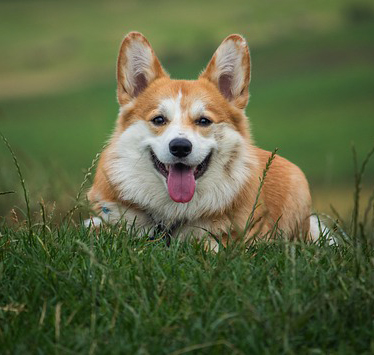
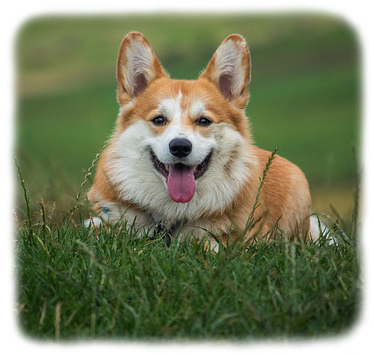
changed pricelist-box and img

Changed region(s): [[0.0, 0.0, 1.0, 1.0]]

diff --git a/css/dagis.css b/css/dagis.css
@@ -58,10 +58,10 @@
   
 }
 #pomeranian-img{
-    
-  margin: 5%;
+
+width: 350px;
+height: auto;
   grid-area:pomeranian-img;
-  border-radius: 5%;
     
 }
 
@@ -140,9 +140,12 @@
     }
     #price-list-box{
         border: dotted 2px rgba(38, 51, 67, 0.8);
-        width: 400px;
+        width: 800px;
         height: 200px;
         padding:2%;
+    }
+
+    #rubrik-price{
         text-align: center;
     }
     #Rules-textbox, #disease-textbox{
@@ -153,10 +156,9 @@
      #price-pic{
         padding:5%;
         height: auto;
-        border-radius: 40%;
+       
     }
     #pugs{
-        border-radius: 10%;
         padding:5%;
         height: auto;
     }
@@ -167,11 +169,13 @@
     }
 
     #sick-dog{
-        border-radius:20%;
+     
         margin-left: 2%;
+        width: 350px;
+        height: auto;
     }
 
-    #price-pic, #pugs{
+    #price-pic{
         width: 250px;
        
     }
@@ -200,6 +204,12 @@
         #pomeranian-img{
             width: 300px;
             height: auto;
+        }
+
+        #price-list-box{
+            width: 500px;
+            height: 200px;
+         
         }
     }
 /*For small desktop*/
@@ -290,6 +300,13 @@
         li.meny,a{
             margin:0%;
            
+        }
+
+        #price-list-box{
+         
+            width: 400px;
+            height: 150px;
+            padding:2%;
         }
        
     }

diff --git a/dagis.html b/dagis.html
@@ -124,7 +124,7 @@
                         detta,
                         vid dessa tillfällen är det viktigt att rådfråga en veterinär. </p>
                 </div>
-                <img id="sick-dog" src="img/Riley.jpg" alt="dog">
+                <img id="sick-dog" src="img/Riley-sudd.jpg" alt="dog">
             </div>
 
 
@@ -132,7 +132,7 @@
 
                 <img id="pugs" src="img/pugs-4.jpg" alt="dog">
                 <div id="price-list-box">
-                    <h2>Prislista</h2>
+                    <h2 id="rubrik-price">Prislista</h2>
                     <ul id="dollar">
                         <li>5 dagar i veckan 4500kr/månaden (mån-fre)</li>
                         <li>Helgpassning 300kr/dag (övernattning ingår)

diff --git a/css/gemensam.css b/css/gemensam.css
@@ -23,7 +23,7 @@ background-image:url(../img/dog-313357_960_720.jpg);
     width: 90%;
     height: auto;
     row-gap:10px;
-    background-color: white;
+    background-color:#ffffff;
 	grid-template-columns: repeat(1,1fr);
 	grid-template-rows: auto;
     grid-template-areas: 
